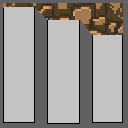
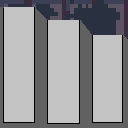
update old sprites

Changed region(s): [[0.0, 0.0, 1.0, 0.3125]]

diff --git a/app/src/main/java/com/gamindungeon/gametest/object/Player.java b/app/src/main/java/com/gamindungeon/gametest/object/Player.java
@@ -77,7 +77,12 @@ public class Player extends GameObject{
 
         switch(lastKnownMove){
             case "up":
-                bitMapSprite = Bitmap.createScaledBitmap(BitmapFactory.decodeResource(context.getResources(), R.raw.mainback), 176, 176, false);
+                if(calories <= 1000) {
+                    bitMapSprite = Bitmap.createScaledBitmap(BitmapFactory.decodeResource(context.getResources(), R.raw.mainback), 176, 176, false);
+                }
+                else{
+                    bitMapSprite = Bitmap.createScaledBitmap(BitmapFactory.decodeResource(context.getResources(), R.raw.mainback_bigger), 176, 176, false);
+                }
                 break;
             case "down":
                 if(calories <= 1000) {
